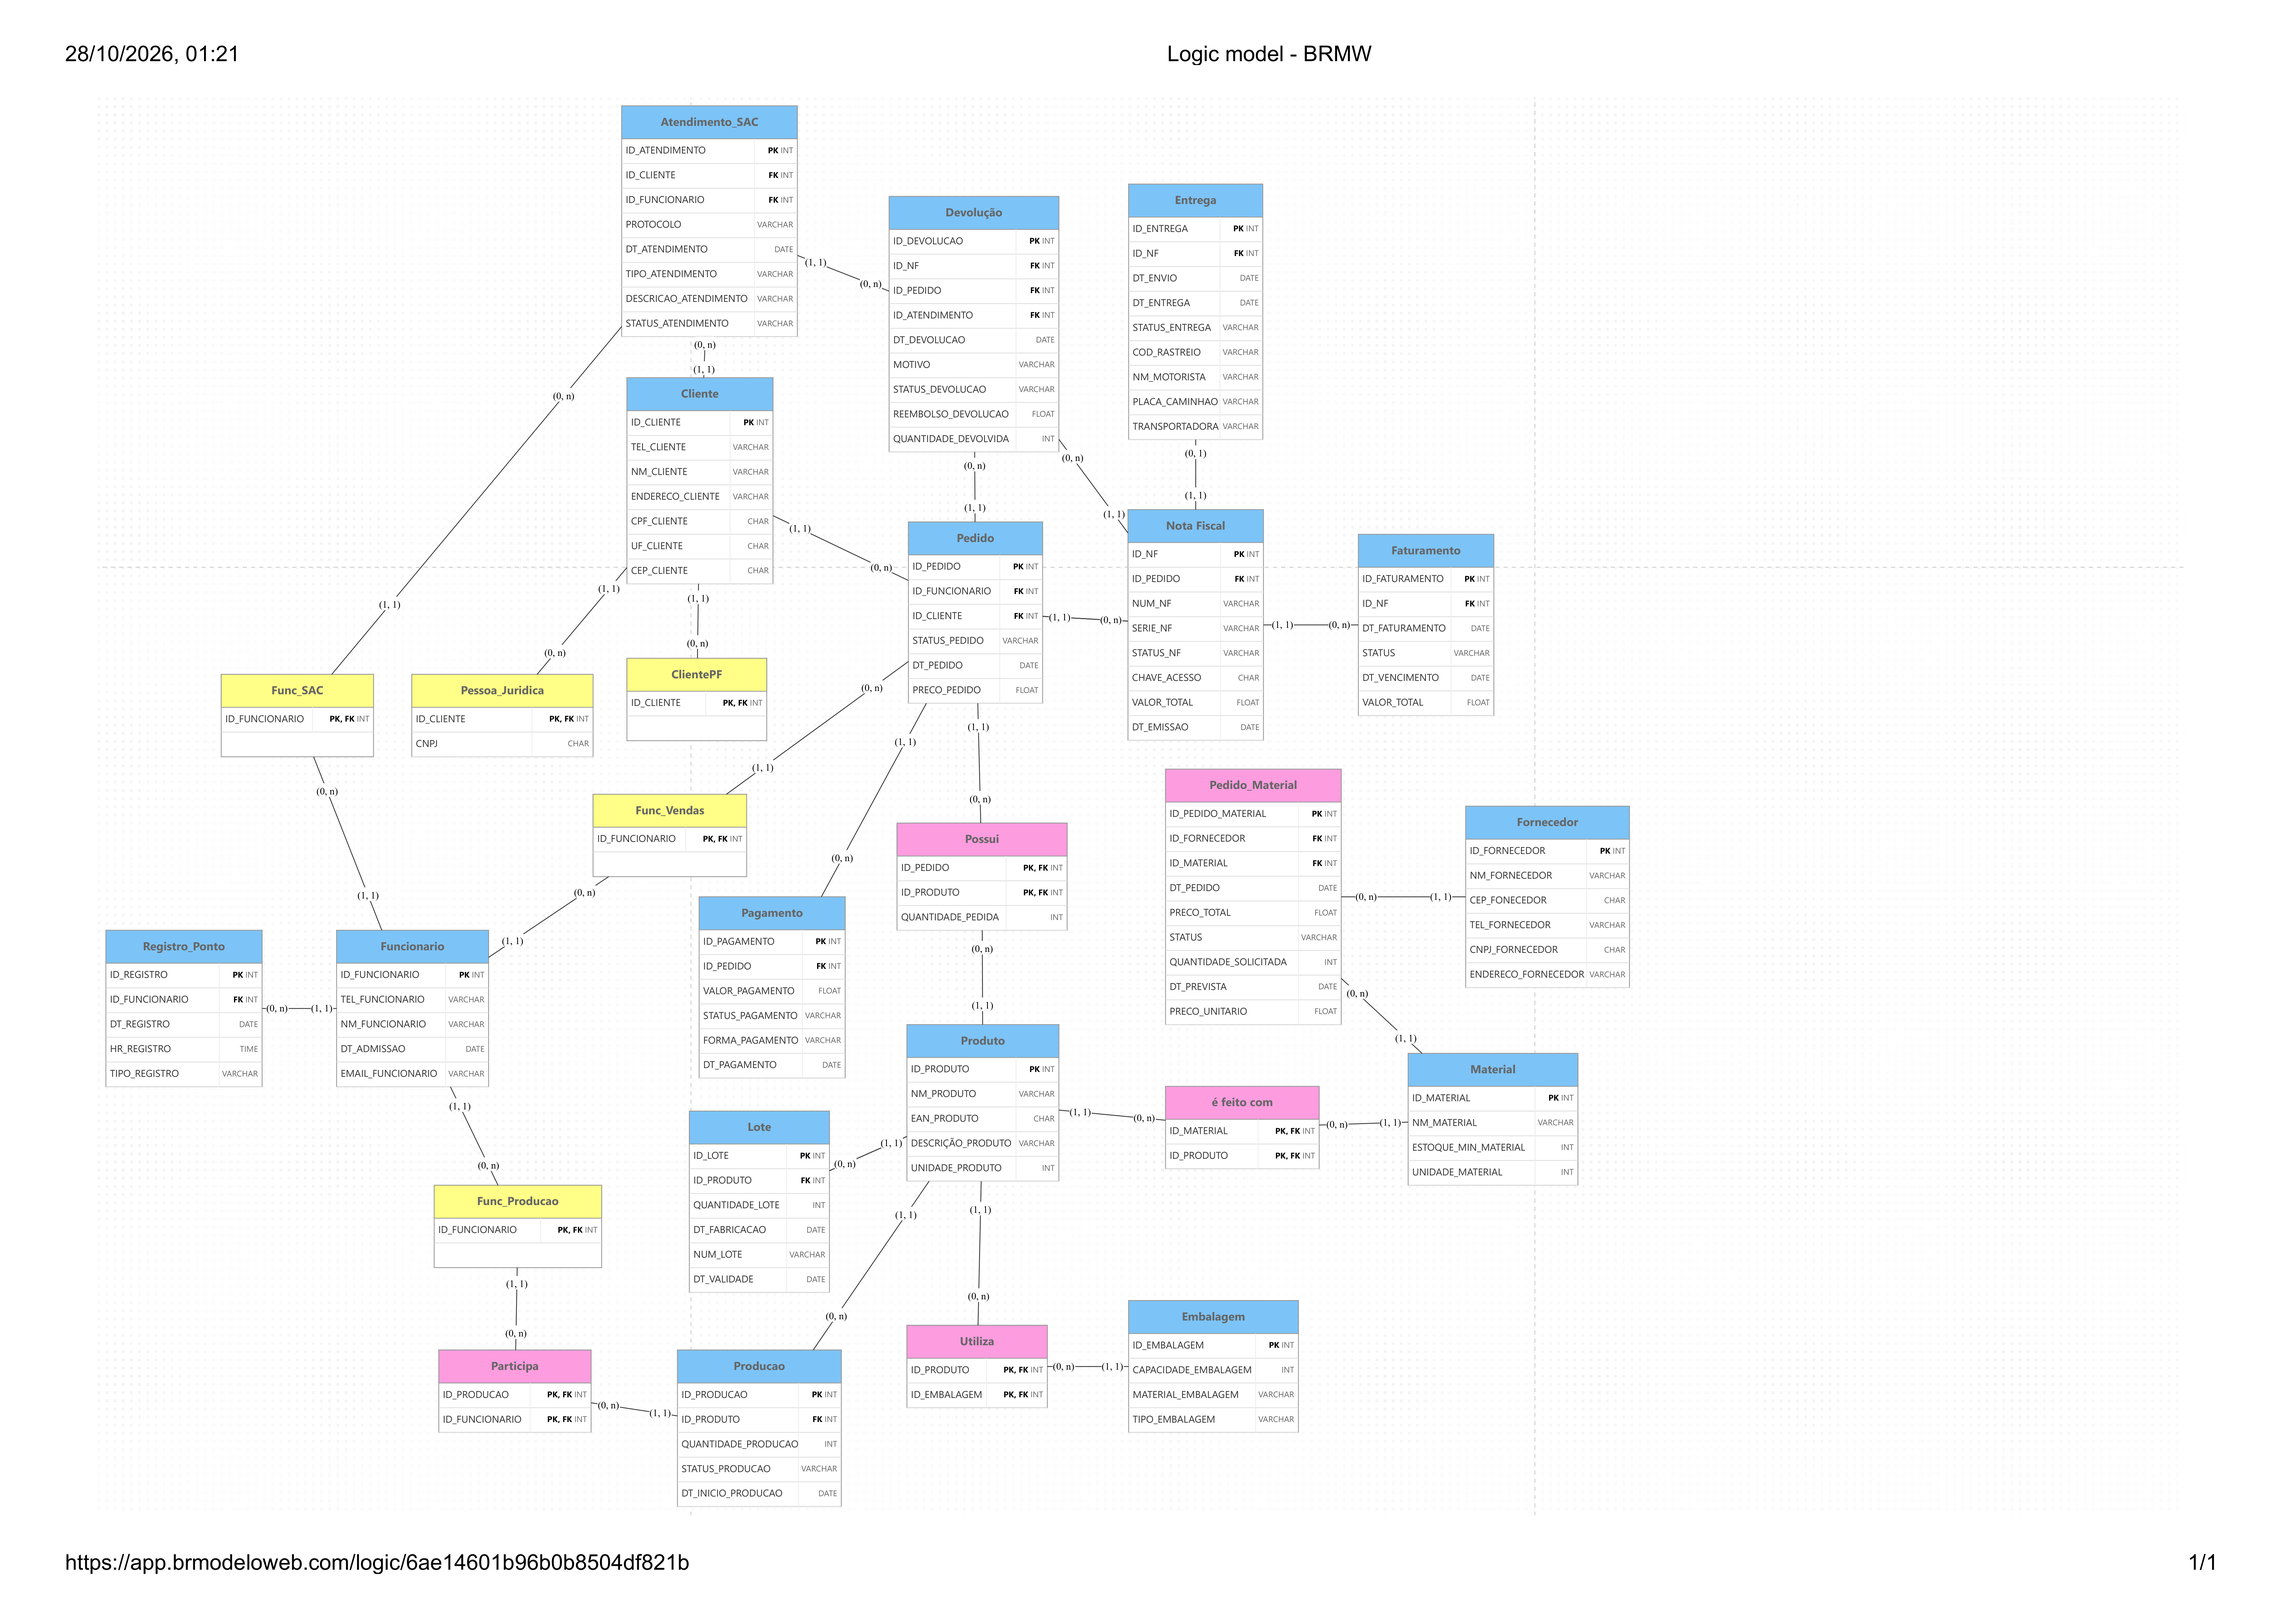
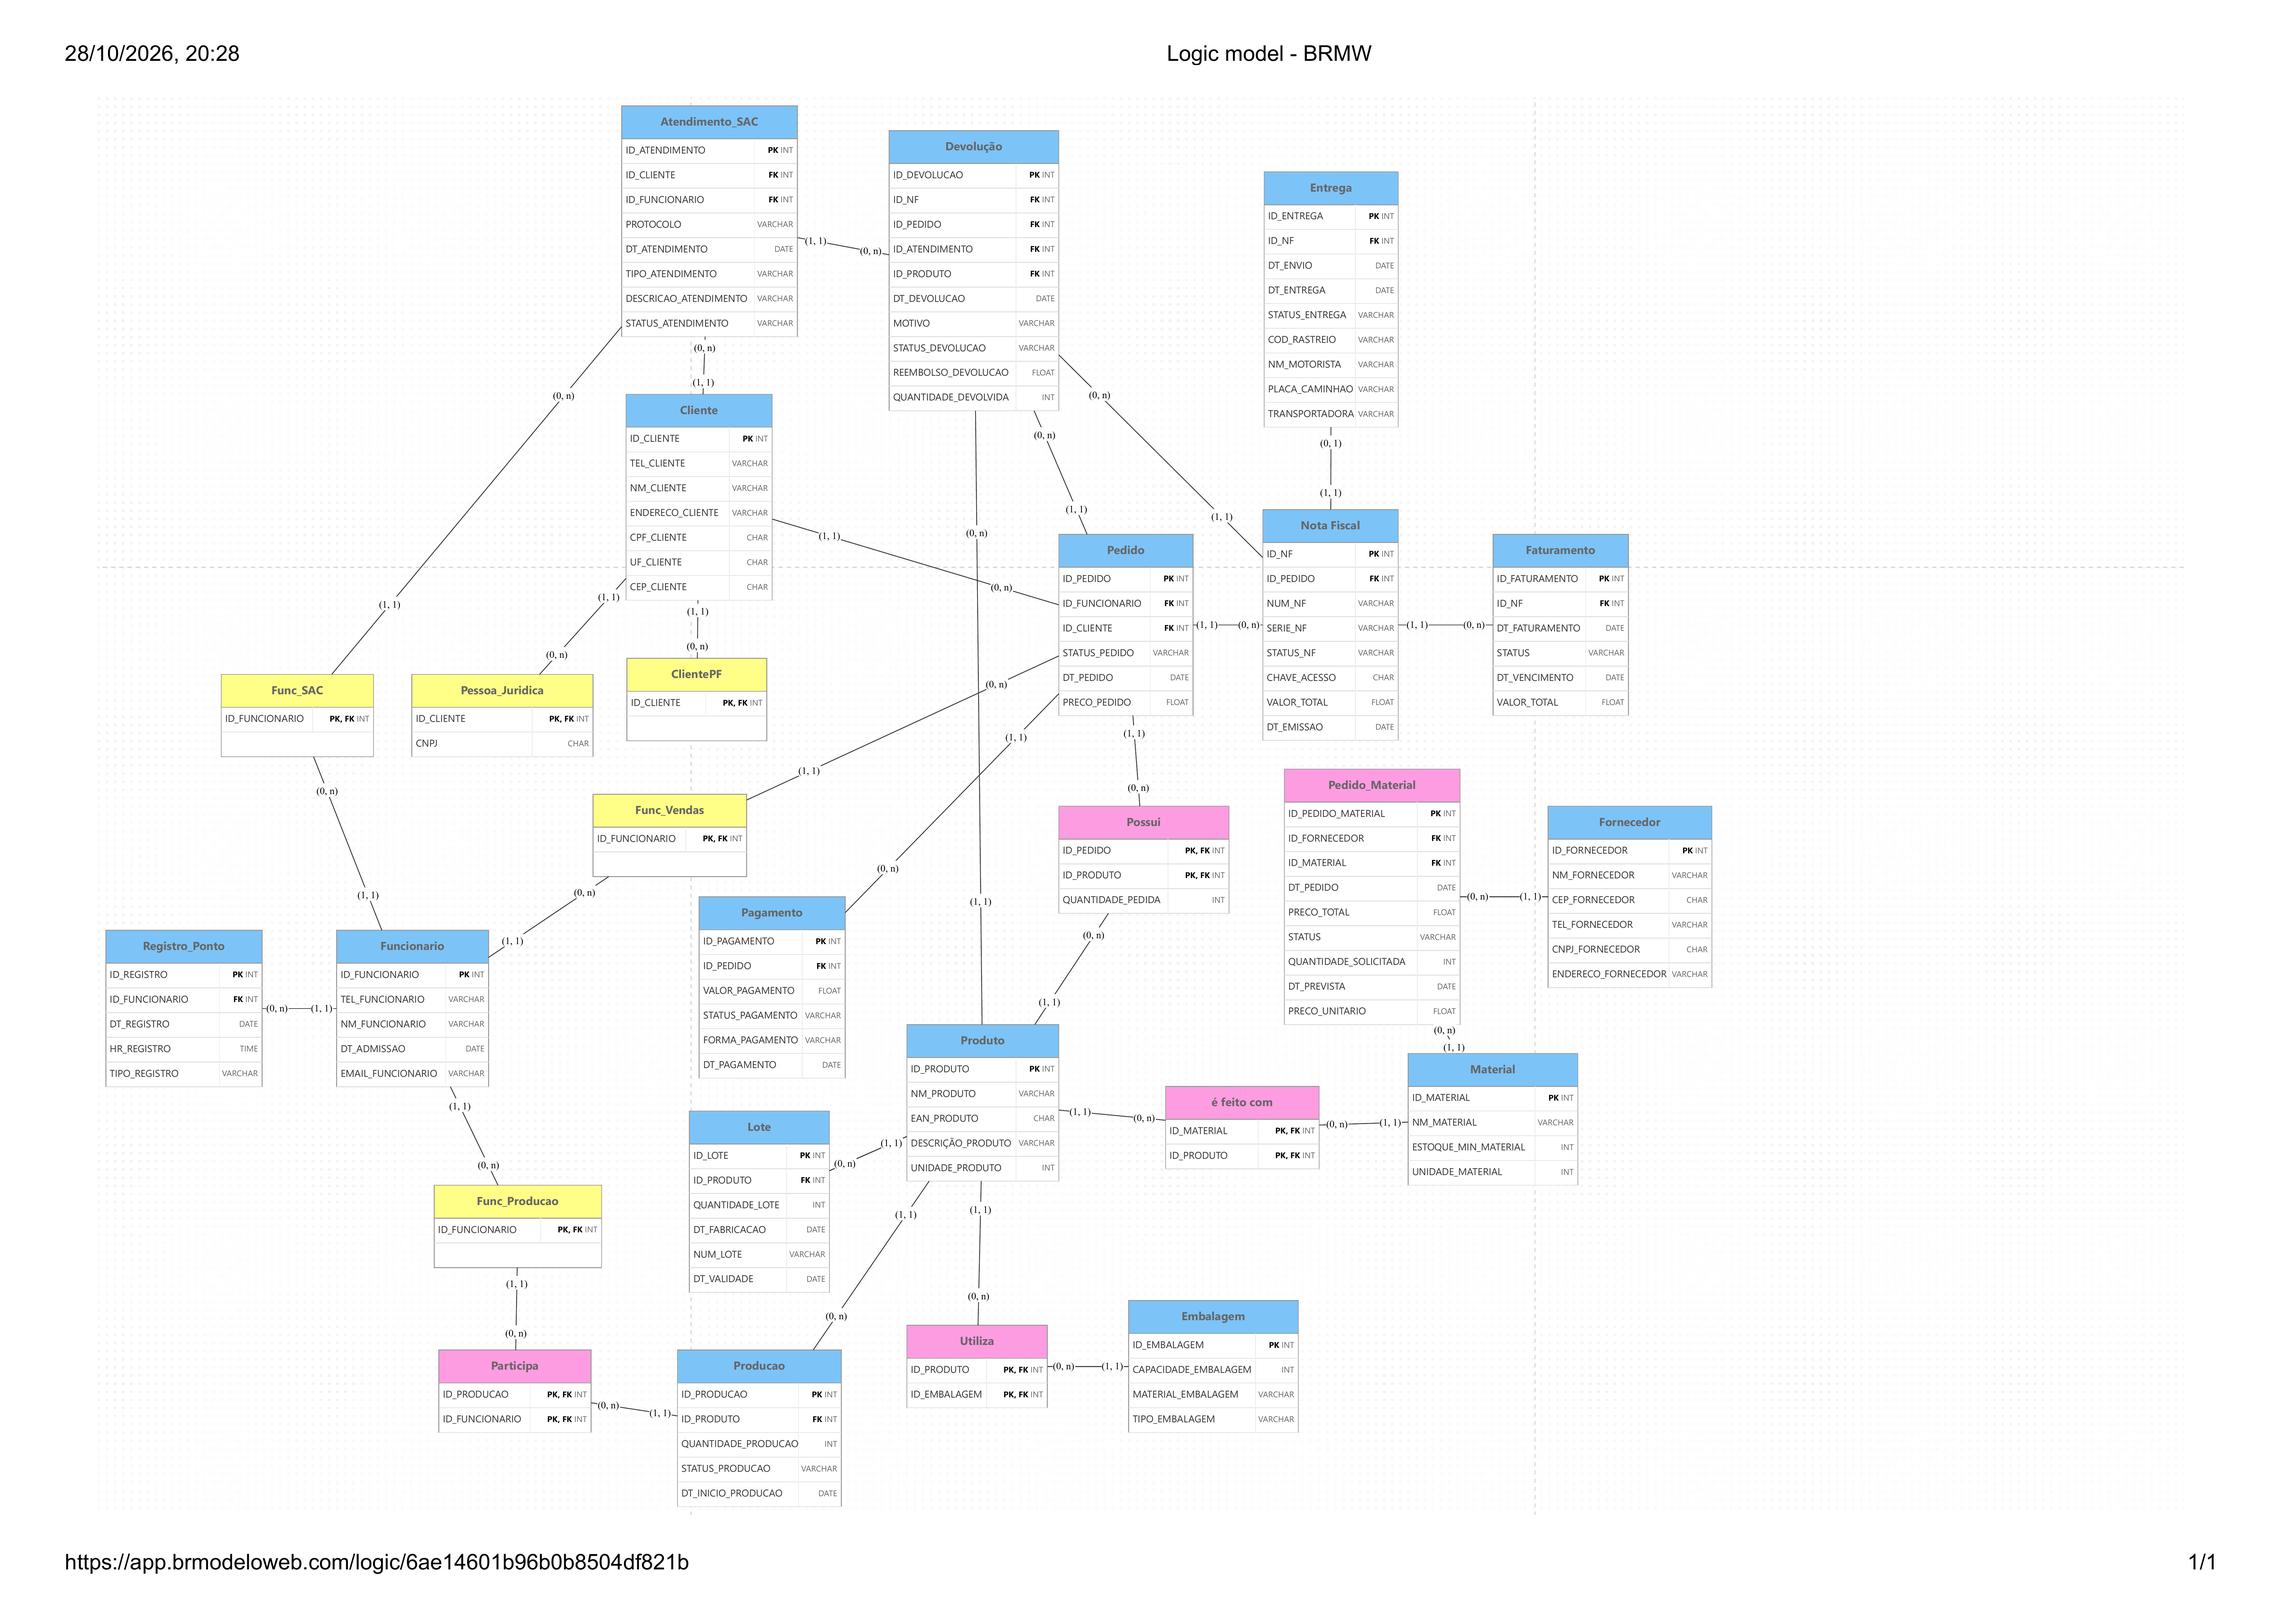
Atualiza modelos conceitual e logico e dicionario de dados

diff --git a/Dicionario_de_Dados.html b/Dicionario_de_Dados.html
@@ -178,7 +178,12 @@
                 <tr>
                     <td>DEVOLUÇÃO</td>
                     <td>NOTA_FISCAL</td>
-                    <td>CONTÉM — DEVOLUÇÃO (0,N) / NOTA_FISCAL (1,1)</td>
+                    <td>CONTÉM — DEVOLUÇÃO (1,1) / NOTA_FISCAL (0,N)</td>
+                </tr>
+                <tr>
+                    <td>DEVOLUÇÃO</td>
+                    <td>PRODUTO</td>
+                    <td>REFERE-SE A — DEVOLUÇÃO (1,1) / PRODUTO (0,N)</td>
                 </tr>
                 <tr>
                     <td>NOTA_FISCAL</td>
@@ -288,7 +293,7 @@
                 </tr>
                 <tr>
                     <td>DEVOLUÇÃO</td>
-                    <td>Registra devoluções associadas a pedidos, atendimentos do SAC e notas fiscais.</td>
+                    <td>Registra devoluções de produtos associadas a pedidos, atendimentos do SAC e notas fiscais.</td>
                 </tr>
                 <tr>
                     <td>PEDIDO</td>
@@ -878,10 +883,10 @@
     <section class="page">
         <div class="entity">
             <h3>DEVOLUCAO</h3>
-            <div class="formula">DEVOLUCAO = @ID_DEVOLUCAO + ID_NF + ID_PEDIDO + ID_ATENDIMENTO + DT_DEVOLUCAO + MOTIVO
+            <div class="formula">DEVOLUCAO = @ID_DEVOLUCAO + ID_NF + ID_PEDIDO + ID_ATENDIMENTO + ID_PRODUTO + DT_DEVOLUCAO + MOTIVO
                 + STATUS_DEVOLUCAO + REEMBOLSO_DEVOLUCAO + QUANTIDADE_DEVOLVIDA</div>
-            <p><b>LEITURA:</b> Registra as devoluções vinculadas a um pedido, a um atendimento do SAC e a uma nota
-                fiscal, incluindo a quantidade devolvida.</p>
+            <p><b>LEITURA:</b> Registra as devoluções de um produto vinculadas a um pedido, a um atendimento do SAC e a uma nota
+                fiscal, incluindo a quantidade devolvida do produto.</p>
             <table>
                 <thead>
                     <tr>
@@ -930,6 +935,15 @@
                         <td>Sim</td>
                         <td>Sim</td>
                         <td>Identificador do atendimento do SAC que registrou a devolução.</td>
+                    </tr>
+                    <tr>
+                        <td>ID_PRODUTO</td>
+                        <td>INT</td>
+                        <td>—</td>
+                        <td>FK</td>
+                        <td>Sim</td>
+                        <td>Não</td>
+                        <td>Identificador do produto ao qual a devolução se refere.</td>
                     </tr>
                     <tr>
                         <td>DT_DEVOLUCAO</td>
@@ -2155,10 +2169,16 @@
                 </tr>
                 <tr>
                     <td>CONTÉM</td>
-                    <td>DEVOLUCAO (0,N)</td>
-                    <td>NOTA_FISCAL (1,1)</td>
+                    <td>DEVOLUCAO (1,1)</td>
+                    <td>NOTA_FISCAL (0,N)</td>
                     <td>Uma nota fiscal pode estar relacionada a várias devoluções; cada devolução se vincula a uma nota
                         fiscal.</td>
+                </tr>
+                <tr>
+                    <td>REFERE-SE A</td>
+                    <td>DEVOLUCAO (1,1)</td>
+                    <td>PRODUTO (0,N)</td>
+                    <td>Cada devolução se refere a um produto; um produto pode estar relacionado a várias devoluções.</td>
                 </tr>
                 <tr>
                     <td>GERA</td>
